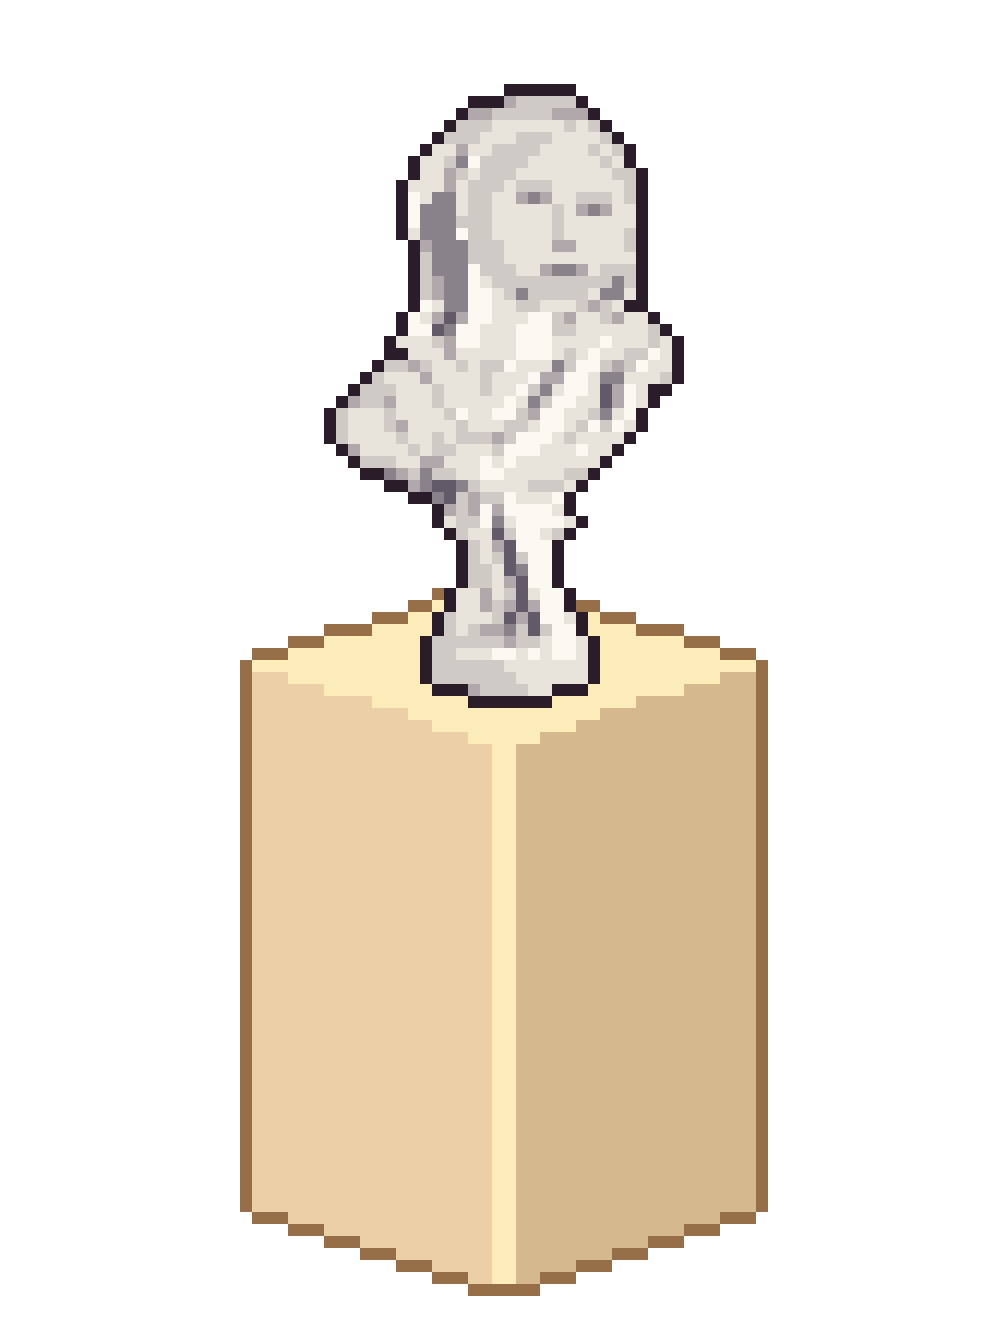
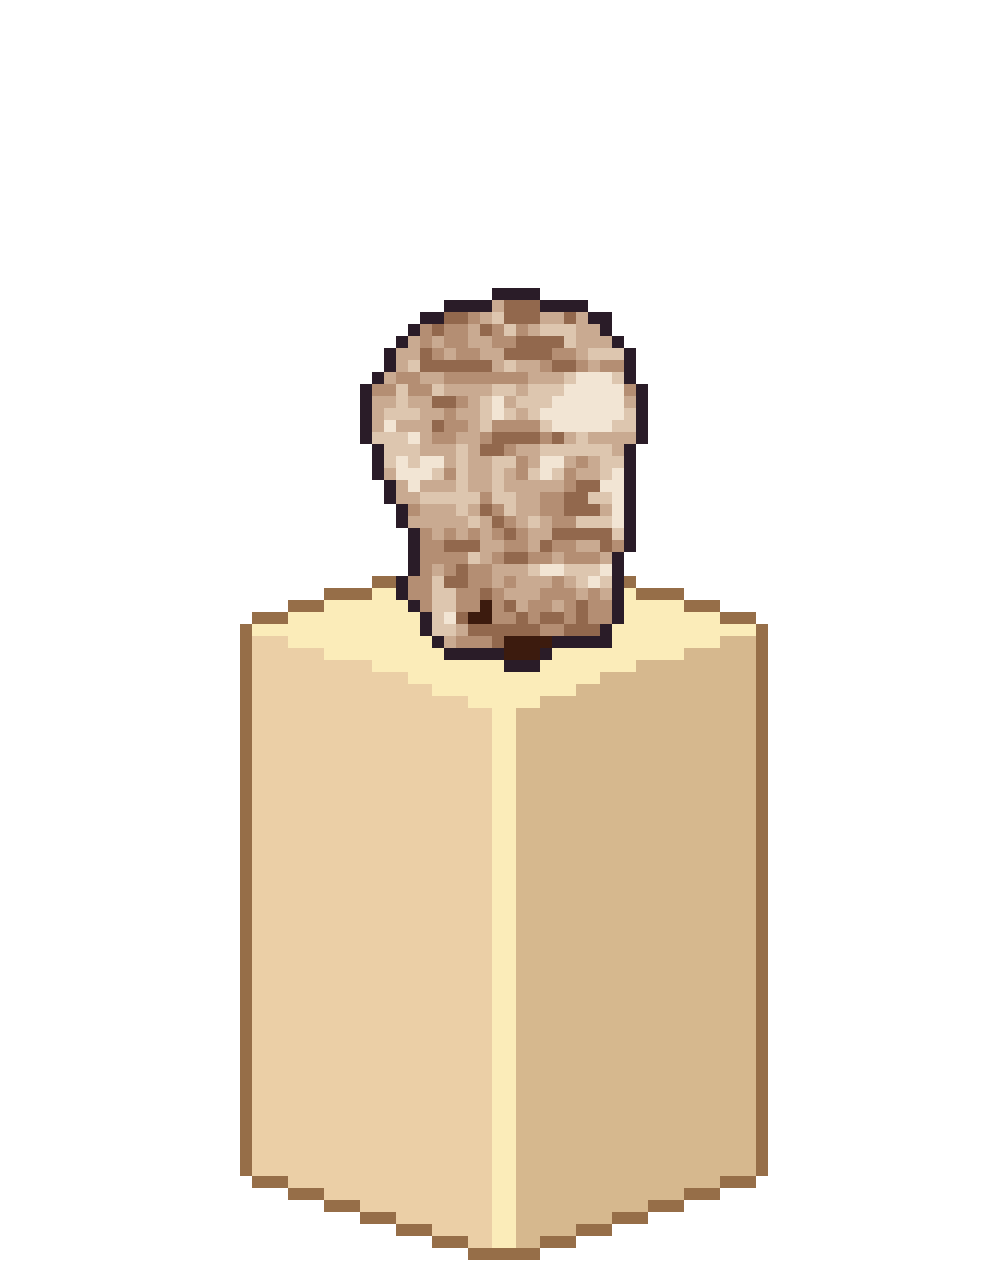
muchoss avances aaaaa

diff --git a/src/salas/sala1/paredes.js b/src/salas/sala1/paredes.js
@@ -18,8 +18,7 @@ export function crearParedes() {
   // Pared del medio de la 3ra pantalla (la de más a la izquierda del mapa).
   // tercerapared.png mide 933px y se dibuja a 943px (mismo estirado que las otras paredes)
   const TERCERA_ANCHO = 943;
-  const TERCERA_X = -AMPLIACION + (SALA_ANCHO - TERCERA_ANCHO) / 2;  // centrada en esa pantalla
-
+  const TERCERA_X = -AMPLIACION + 0;
   // Colchón extra de colisión en las paredes nuevas
   const MARGEN_ARRIBA = 20; // el personaje se frena antes por arriba
   const MARGEN_LADO = 8;    // y antes en los bordes que dan al hueco
@@ -54,69 +53,55 @@ export function crearParedes() {
     });
   }
 
-  // Esculturas con pedestal (tienen que coincidir con background-position y
-  // background-size de .sala en el CSS). Los números "visX/ped" son de la
-  // imagen original en px; la función los escala según el alto dibujado.
-  const ESC_ALTO = 130;     // = "auto 130px" del CSS
-  const MARGEN_ESC = 6;     // colchón lateral y arriba
 
-  function colisionEscultura({ x, y, imgAlto, visX0, visX1, pedTop, pedBottom }) {
-    const s = ESC_ALTO / imgAlto;
+    // ===== Esculturas (las 7 nuevas, todas con el mismo pedestal) =====
+  // Tienen que coincidir con el CSS: todas "auto 130px" (102 x 130 px)
+   // ===== Esculturas (las 7 nuevas, todas con el mismo pedestal) =====
+  // Tienen que coincidir con el CSS: todas "auto 130px" (102 x 130 px)
+   // ===== Esculturas (las 7 nuevas, todas con el mismo pedestal) =====
+  // Tienen que coincidir con el CSS: todas "auto 130px" (102 x 130 px)
+  const ESC_ALTO = 130;     // = "auto 130px" del CSS
+  const ESC_OFFSET_X = 2240; // = left: -2240px de .sala::before (las del ::before)
+  const ESC_Y = 350;         // = --esc-y
+
+  // Medidas comunes de los PNG (1008 x 1284, celda de 12px)
+  const IMG_ALTO = 1284;
+  const BLOQUE_X0 = 240;    // borde izquierdo del bloque
+  const BLOQUE_X1 = 768;    // borde derecho del bloque
+  const TOPE_ESC = 288;     // tope común de todas las esculturas (fila 24)
+  const FONDO_PED = 1260;   // base del pedestal
+
+  // Márgenes de colisión de las esculturas
+  const MARGEN_LADO_ESC = 6;       // colchón a los costados
+  const MARGEN_ARRIBA_ESC = 16;    // más = el personaje se frena más lejos por arriba
+  const RECORTE_ABAJO_ESC = 25;     // más = el personaje se acerca más por abajo
+
+  function colisionEscultura(x, y) {
+    const s = ESC_ALTO / IMG_ALTO;
+    const arriba = y + TOPE_ESC * s - MARGEN_ARRIBA_ESC;
+    const abajo = y + FONDO_PED * s - RECORTE_ABAJO_ESC;
     return {
-      x: Math.round(x + visX0 * s - MARGEN_ESC),
-      y: Math.round(y + pedTop * s - MARGEN_ESC),
-      ancho: Math.round((visX1 - visX0) * s + MARGEN_ESC * 2),
-      alto: Math.round((pedBottom - pedTop) * s + MARGEN_ESC),
+      x: Math.round(x + BLOQUE_X0 * s - MARGEN_LADO_ESC),
+      y: Math.round(arriba),
+      ancho: Math.round((BLOQUE_X1 - BLOQUE_X0) * s + MARGEN_LADO_ESC * 2),
+      alto: Math.round(abajo - arriba),
     };
   }
 
   const esculturas = [
-    // escultura2 (manos): 650px 200px
-    colisionEscultura({
-      x: 650, y: 200,
-      imgAlto: 1284,
-      visX0: 240, visX1: 768, pedTop: 15, pedBottom: 1260,
-    }),
-    // escultura3 (busto): 650px 390px
-    colisionEscultura({
-      x: 650, y: 390,
-      imgAlto: 1320,
-      visX0: 240, visX1: 768, pedTop: 10, pedBottom: 1296,
-    }),
-  ];
+    // sala (pantalla del piano)
+    colisionEscultura(650, 200),                              // escultura2
+    colisionEscultura(650, 390),                              // escultura1
 
-
-
-  // ===== Esculturas nuevas (las 6 del piso ampliado) =====
-  // Tienen que coincidir con .sala::before en el CSS
-  const ESC_OFFSET_X = 2240;       // = left: -2240px
-  const ESC_Y = 350;               // = --esc-y
-  const ESC_ANCHO = 100.8;         // = --esc-ancho
-  const ESC_ALTO_NUEVO = 132;      // = --esc-alto
-
-  function colisionNueva({ cssX, cssY, ancho, alto, recorteLado = 20, recorteArriba = 5 }) {
-    return {
-      x: Math.round(cssX - ESC_OFFSET_X + recorteLado - MARGEN_ESC),
-      y: Math.round(cssY + recorteArriba - MARGEN_ESC),
-      ancho: Math.round(ancho - recorteLado * 2 + MARGEN_ESC * 2),
-      alto: Math.round(alto - recorteArriba + MARGEN_ESC),
-    };
-  }
-
-  const esculturasNuevas = [
     // pantalla del medio
-    colisionNueva({ cssX: 1680, cssY: ESC_Y,      ancho: ESC_ANCHO, alto: ESC_ALTO_NUEVO }), // escultura4 (el beso)
-    colisionNueva({ cssX: 1835, cssY: ESC_Y + 35, ancho: 150,       alto: 150 }),            // escultura1 (al medio)
-    colisionNueva({ cssX: 2042, cssY: ESC_Y,      ancho: ESC_ANCHO, alto: ESC_ALTO_NUEVO }), // escultura5
+    colisionEscultura(1680 - ESC_OFFSET_X, ESC_Y),            // escultura3
+    colisionEscultura(1940 - ESC_OFFSET_X, ESC_Y),            // escultura4
 
-    // tercera pantalla
-    colisionNueva({ cssX: 715,  cssY: ESC_Y,      ancho: ESC_ANCHO, alto: ESC_ALTO_NUEVO }), // escultura6
-    colisionNueva({ cssX: 865,  cssY: ESC_Y,      ancho: 170,       alto: 190 }),            // escultura8 (al medio)
-    colisionNueva({ cssX: 1081, cssY: ESC_Y,      ancho: ESC_ANCHO, alto: ESC_ALTO_NUEVO }), // escultura7
+    // pantalla de la izquierda (al lado del piano)
+    colisionEscultura(590 - ESC_OFFSET_X, ESC_Y),             // escultura5
+    colisionEscultura(790 - ESC_OFFSET_X, ESC_Y + 35),        // escultura6 (más abajo)
+    colisionEscultura(990 - ESC_OFFSET_X, ESC_Y),             // escultura7
   ];
-
-
-
 
 
   const obstaculos = [
@@ -149,7 +134,6 @@ export function crearParedes() {
 
     ...bancas,
     ...esculturas,
-    ...esculturasNuevas
   ];
 
   sala.limites = limites;

diff --git a/src/estilos/sala1.css b/src/estilos/sala1.css
@@ -96,13 +96,19 @@ html, body {
     329px 10px,
     518px 10px,
 
-    /* pared del medio (separación de 46px) */
-    275px calc(var(--pared-y) + 10px),
-    516px calc(var(--pared-y) + 10px),
-    715px calc(var(--pared-y) + 10px),
-    927px calc(var(--pared-y) + 10px),
 
-    center var(--pared-y),
+
+    /* pared del medio (separación de 46px) */
+40px  calc(var(--pared-y) + 10px),   /* obra27 (195px de ancho) */
+281px calc(var(--pared-y) + 10px),   /* obra28: 516 - 235 */
+480px calc(var(--pared-y) + 10px),   /* obra29: 715 - 235 */
+692px calc(var(--pared-y) + 10px),   /* obra30: 927 - 235 */
+
+     
+
+
+    
+    0px var(--pared-y),
     left top,
     top left;
 
@@ -137,7 +143,7 @@ html, body {
 
 /* esculturas (arriba de todo) */
     url('/escultura2.png'),
-    url('/escultura3.png'),
+    url('/escultura1.png'),   /* antes: escultura3 */
 
 
 
@@ -230,7 +236,6 @@ html, body {
    separación pareja de 43.5px, 125px de alto, y=10px
    la última (obra23) termina a 43.5px de primerobra
 ========================= */
-
 .sala::before {
   content: "";
   position: absolute;
@@ -242,18 +247,17 @@ html, body {
 
   /* ajustes de las esculturas (se cambian acá y listo) */
   --esc-y: 350px;          /* altura de la fila */
-  --esc-ancho: 100.8px;    /* 132px de alto × 84/110 */
-  --esc-alto: 132px;
+  --esc-ancho: 102px;      /* 130px de alto × 1008/1284 */
+  --esc-alto: 130px;       /* mismo alto que las de la sala */
 
   background-image:
-    /* esculturas: fila derecha (4 - 1 - 5) */
+    /* pantalla del medio: 3 y 4 */
+    url('/escultura3.png'),
     url('/escultura4.png'),
-    url('/escultura1.png'),
-    url('/escultura5.png'),
 
-    /* esculturas: fila izquierda del piano (6 - 8 - 7) */
+    /* pantalla del piano (izquierda): 5, 6 y 7 */
+    url('/escultura5.png'),
     url('/escultura6.png'),
-    url('/escultura8.png'),
     url('/escultura7.png'),
 
     url('/obra12.png'),
@@ -270,13 +274,12 @@ html, body {
     url('/obra23.png');
 
   background-position:
-    1680px var(--esc-y),    /* escultura4 (el beso) */
-    1835px calc(var(--esc-y) + 35px),    /* escultura1 (al medio) */
-    2042px var(--esc-y),    /* escultura5 */
+    1680px var(--esc-y),                    /* escultura3 */
+    1940px var(--esc-y),                    /* escultura4 */
 
-    715px var(--esc-y),     /* escultura6 */
-    865px var(--esc-y),     /* escultura8 (al medio) */
-    1081px var(--esc-y),    /* escultura7 */
+    590px var(--esc-y),                     /* escultura5 */
+    790px calc(var(--esc-y) + 35px),        /* escultura6: en el medio de 5 y 7, más abajo */
+    990px var(--esc-y),                     /* escultura7 */
 
     96px 10px,
     284px 10px,
@@ -292,13 +295,12 @@ html, body {
     2102px 10px;
 
   background-size:
-    var(--esc-ancho) var(--esc-alto),
-    150px 150px,                      /* escultura1: ancho alto */
-    var(--esc-ancho) var(--esc-alto),
+    auto var(--esc-alto),
+    auto var(--esc-alto),
 
-    var(--esc-ancho) var(--esc-alto),
-    170px 190px,                      /* escultura1: ancho alto */
-    var(--esc-ancho) var(--esc-alto),
+    auto var(--esc-alto),
+    auto var(--esc-alto),
+    auto var(--esc-alto),
 
     144px 125px,
     91px 125px,
@@ -316,8 +318,6 @@ html, body {
   background-repeat: no-repeat;
   image-rendering: pixelated;
 }
-
-
 
 /* =========================
    BANCAS (pantalla 2, la del medio)

diff --git a/src/salas/sala1/obras.js b/src/salas/sala1/obras.js
@@ -3,7 +3,7 @@
 //  La información de cada obra se completa en obras-contenido.js
 // =====================================================================
 import { CONTENIDO } from './obrascontenido.js';
-
+import { CONTENIDO_ESCULTURAS } from './esculturascontenido.js';
 // y de las obras de las paredes de abajo = --pared-y (sala1.css) + 10
 const Y_ABAJO = 313;
 
@@ -46,11 +46,12 @@ const POSICIONES = [
   [26, 'obra26', -2471, 10, 145, 125],
   [31, 'obra31', -2282, 10, 94, 125],
 
+
   // ---------- Última pantalla, pared del medio ----------
-  [27, 'obra27', -2525, Y_ABAJO, 195, 125],
-  [28, 'obra28', -2284, Y_ABAJO, 153, 125],
-  [29, 'obra29', -2085, Y_ABAJO, 166, 125],
-  [30, 'obra30', -1873, Y_ABAJO, 198, 125],
+[27, 'obra27', -2760, Y_ABAJO, 195, 125],
+[28, 'obra28', -2519, Y_ABAJO, 153, 125],
+[29, 'obra29', -2320, Y_ABAJO, 166, 125],
+[30, 'obra30', -2108, Y_ABAJO, 198, 125],
 ];
 
 // Etiquetas que se muestran, en este orden (clave en CONTENIDO -> texto)
@@ -95,7 +96,80 @@ function armarObra([numero, id, x, y, width, height]) {
   };
 }
 
-const obras = POSICIONES.map(armarObra);
+
+
+
+
+
+// =====================================================================
+//  ESCULTURAS  (mismo botón E que las obras)
+// =====================================================================
+
+// Tienen que coincidir con el CSS y con los límites (paredes.js)
+const ESC_ALTO = 130;          // = "auto 130px"
+const ESC_IMG_ALTO = 1284;     // alto del PNG
+const ESC_S = ESC_ALTO / ESC_IMG_ALTO;
+const ESC_BLOQUE_X0 = 240;     // borde izquierdo del bloque dentro del PNG
+const ESC_BLOQUE_X1 = 768;     // borde derecho
+const ESC_TOPE = 288;          // tope de la escultura
+const ESC_FONDO = 1260;        // base del pedestal
+
+// Distancia propia de las esculturas (las obras usan 80). Subila si cuesta que aparezca la E.
+const ESC_DISTANCIA = 100;
+
+// [numero, id, x, y]  ->  x, y = posición CSS de la imagen (esquina superior izquierda, en el mundo)
+//   ::before:  x = cssX - 2240
+const POSICIONES_ESCULTURAS = [
+  [1, 'escultura1',   650, 390],
+  [2, 'escultura2',   650, 200],
+  [3, 'escultura3',  -560, 350],   // 1680 - 2240
+  [4, 'escultura4',  -300, 350],   // 1940 - 2240
+  [5, 'escultura5', -1650, 350],   //  590 - 2240
+  [6, 'escultura6', -1450, 385],   //  790 - 2240, +35
+  [7, 'escultura7', -1250, 350],   //  990 - 2240
+];
+
+function armarEscultura([numero, id, cx, cy]) {
+  // zona de la escultura: el bloque con su escultura (sin el espacio transparente del PNG)
+  const caja = {
+    id,
+    x: cx + ESC_BLOQUE_X0 * ESC_S,
+    y: cy + ESC_TOPE * ESC_S,
+    width: (ESC_BLOQUE_X1 - ESC_BLOQUE_X0) * ESC_S,
+    height: (ESC_FONDO - ESC_TOPE) * ESC_S,
+    distancia: ESC_DISTANCIA,
+  };
+
+  const c = CONTENIDO_ESCULTURAS[numero] || {};
+  const titulo = limpiar(c.titulo);
+  const autor = limpiar(c.autor);
+
+  if (!titulo) {
+    return { ...caja, imagenReal: null, titulo: 'Próximamente', autor: '', datos: [] };
+  }
+
+  return {
+    ...caja,
+    imagenReal: `/esculturareal${numero}.png`,
+    titulo,
+    autor: autor ? `Autor: ${autor}` : '',
+    datos: CAMPOS
+      .map(([clave, etiqueta]) => ({ etiqueta, valor: limpiar(c[clave]) }))
+      .filter(d => d.valor),
+  };
+}
+
+
+
+
+const obras = [
+  ...POSICIONES.map(armarObra),
+  ...POSICIONES_ESCULTURAS.map(armarEscultura),
+];
+
+
+
+
 
 const DISTANCIA_INTERACCION = 80;
 

diff --git a/src/salas/sala1/esculturascontenido.js b/src/salas/sala1/esculturascontenido.js
@@ -1,0 +1,9 @@
+export const CONTENIDO_ESCULTURAS = {
+  1: { titulo: '', autor: '', origen: '', fecha: '', periodo: '', escuela: '', tecnica: '', objeto: '', estilo: '', genero: '', soporte: '', medidas: '' }, // cabeza de niña
+  2: { titulo: '', autor: '', origen: '', fecha: '', periodo: '', escuela: '', tecnica: '', objeto: '', estilo: '', genero: '', soporte: '', medidas: '' }, // abstracta de metal
+  3: { titulo: '', autor: '', origen: '', fecha: '', periodo: '', escuela: '', tecnica: '', objeto: '', estilo: '', genero: '', soporte: '', medidas: '' }, // busto barbudo
+  4: { titulo: '', autor: '', origen: '', fecha: '', periodo: '', escuela: '', tecnica: '', objeto: '', estilo: '', genero: '', soporte: '', medidas: '' }, // manos
+  5: { titulo: '', autor: '', origen: '', fecha: '', periodo: '', escuela: '', tecnica: '', objeto: '', estilo: '', genero: '', soporte: '', medidas: '' }, // Diana con la luna
+  6: { titulo: '', autor: '', origen: '', fecha: '', periodo: '', escuela: '', tecnica: '', objeto: '', estilo: '', genero: '', soporte: '', medidas: '' }, // busto de bronce
+  7: { titulo: '', autor: '', origen: '', fecha: '', periodo: '', escuela: '', tecnica: '', objeto: '', estilo: '', genero: '', soporte: '', medidas: '' }, // caballo y jinete
+};
